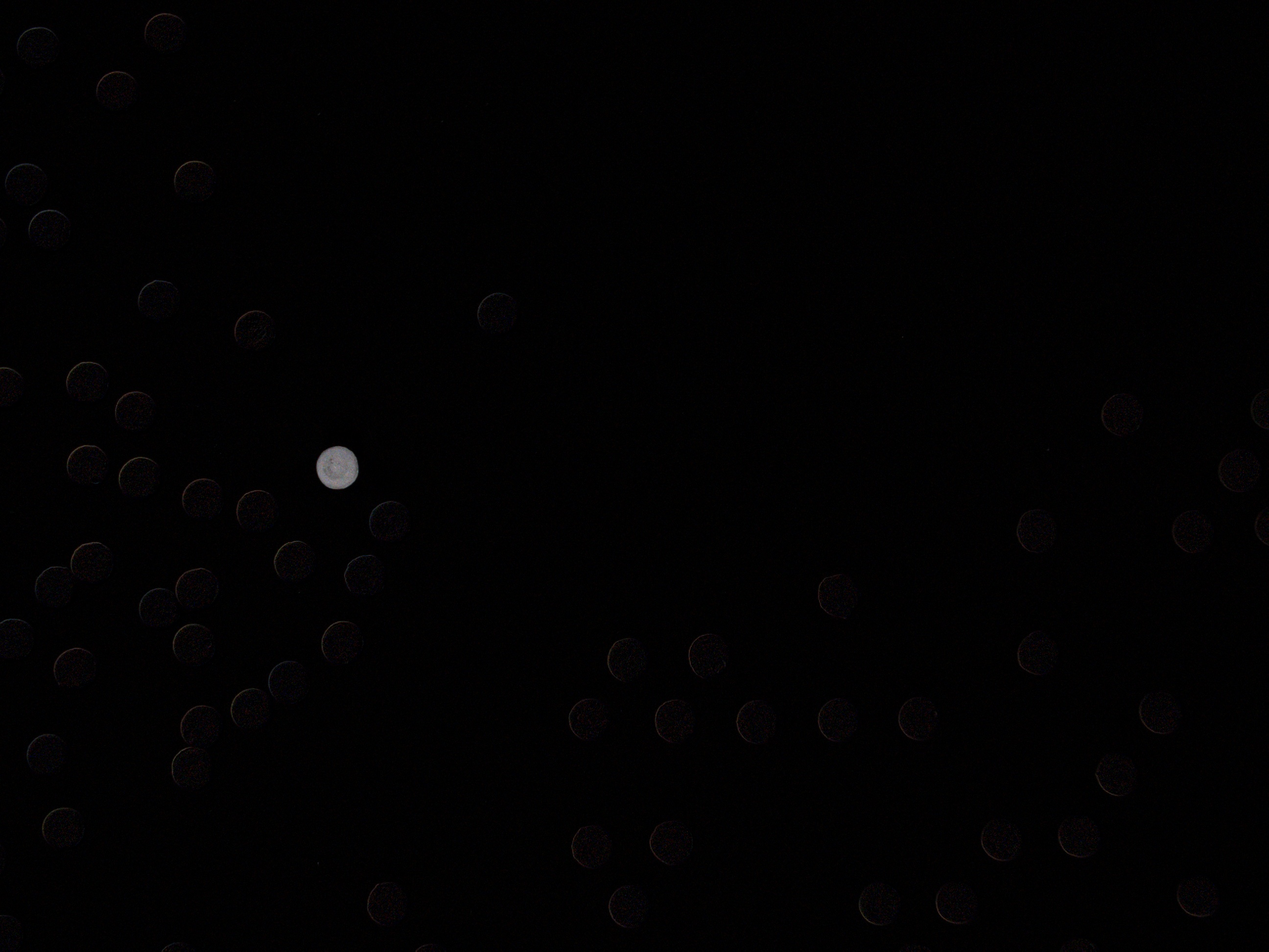
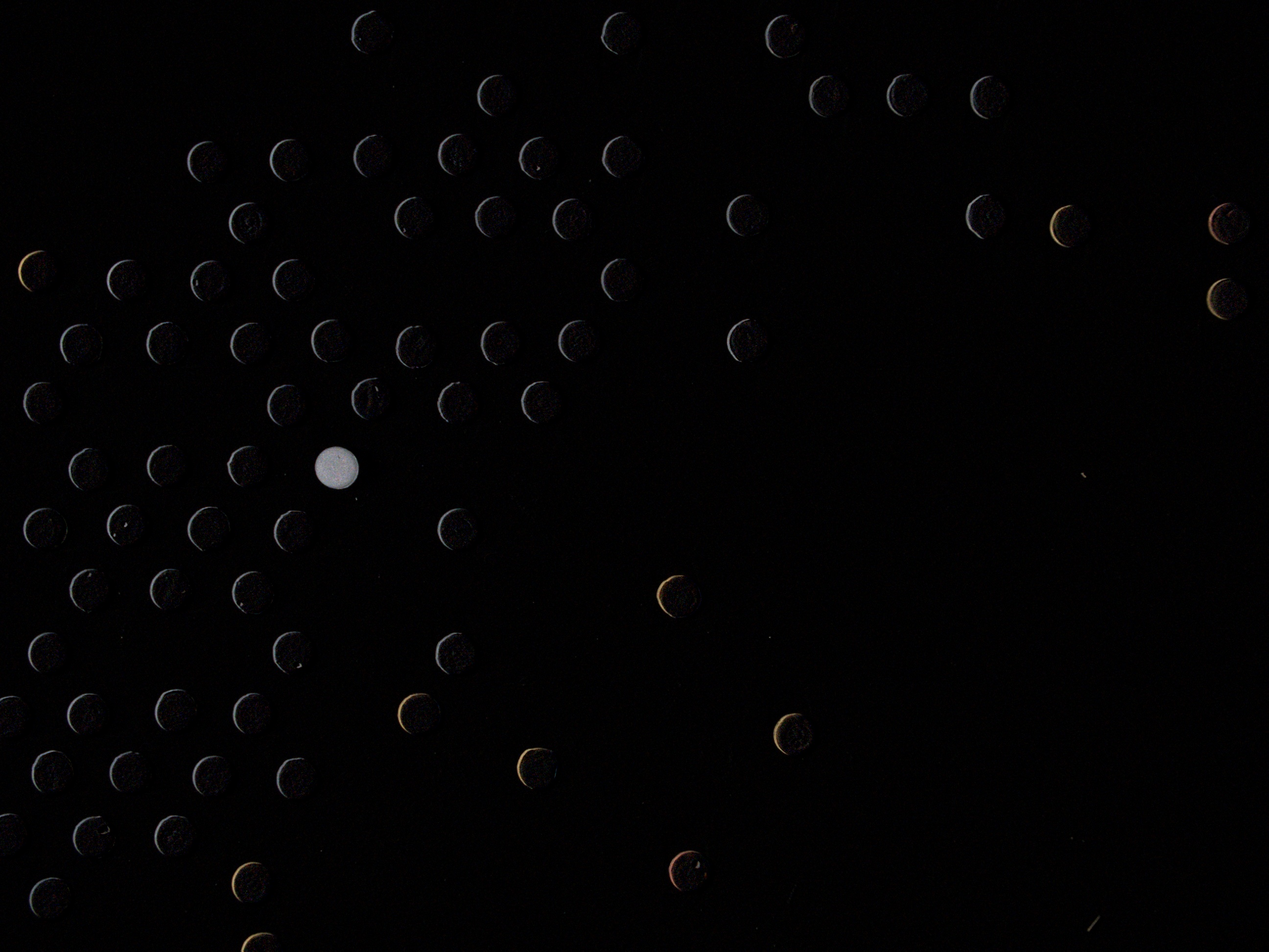
cv

diff --git a/P-III/src/computerVision/Pill.py b/P-III/src/computerVision/Pill.py
@@ -18,10 +18,12 @@ class Pill:
         self.area = M["m00"]
         self.perimeter = cv2.arcLength(contour, True)
         self.circularity = getCircularity(self.area, self.perimeter)
-        self.isPill= self.area > 2000 and self.area < 2600 and self.circularity > 0.75
+        self.isPill= self.area > 1700 and self.area < 2600 and self.circularity > 0.8
         self.centroid = (M["m10"]/M["m00"], M["m01"]/M["m00"])
         x, y, w, h = cv2.boundingRect(contour)
         self.bBox = {"x":x, "y":y, "w":w, "h":h}
+        if x < 2 or y < 2 or x > imBGR.shape[1]-2  or y > imBGR.shape[0]-2 :
+            self.isPill= False
         if self.isPill :
             parcel = imBGR[self.bBox["y"]:self.bBox["y"]+self.bBox["h"], self.bBox["x"]:self.bBox["x"]+self.bBox["w"]]
             pixels = np.float32(parcel.reshape(-1, 3))
@@ -34,11 +36,15 @@ class Pill:
         if self.isPill :
             return {
                 "isPill" : self.isPill,
+                "area" : self.area,
+                "circularity" : self.circularity,
                 "box" : [float("{:.2f}".format(self.centroid[0])), float("{:.2f}".format(self.centroid[1])), self.bBox["w"], self.bBox["h"]],
                 "avgRGB" : [self.avgRGB[2], self.avgRGB[1], self.avgRGB[0]]
             }
         else :
             return {
                 "isPill" : self.isPill,
+                "area" : self.area,
+                "circularity" : self.circularity,
                 "box" : [float("{:.2f}".format(self.centroid[0])), float("{:.2f}".format(self.centroid[1])), self.bBox["w"], self.bBox["h"]],
             }

diff --git a/P-III/src/computerVision/liveCV.py b/P-III/src/computerVision/liveCV.py
@@ -43,9 +43,6 @@ device_manager = gx.DeviceManager()
 def createCamera():
 
     dev_num, dev_info_list = device_manager.update_device_list()
-
-    # print(dev_info_list)
-
     if dev_num == 0:
         # print("Daheng camera is not found!!!")
         return None
@@ -66,8 +63,8 @@ def createCamera():
     cam.ExposureAuto.set(False)
     cam.ExposureTime.set(15000.0)
     cam.GainAuto.set(False)
-    cam.Gain.set(21.0)
-    # cam.Gain.set(24.0)
+    # cam.Gain.set(21.0)
+    cam.Gain.set(22.0)
     # cam.LightSourcePreset.set(2)
 
     # set the acq buffer count
